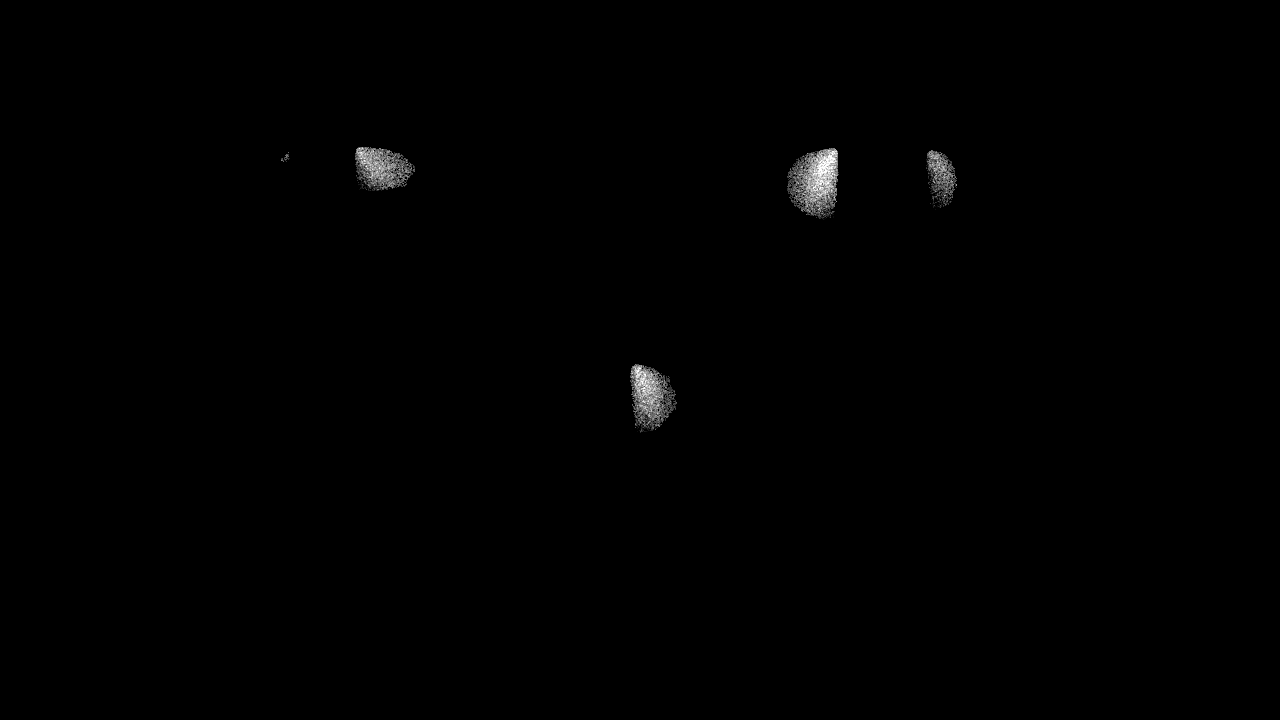
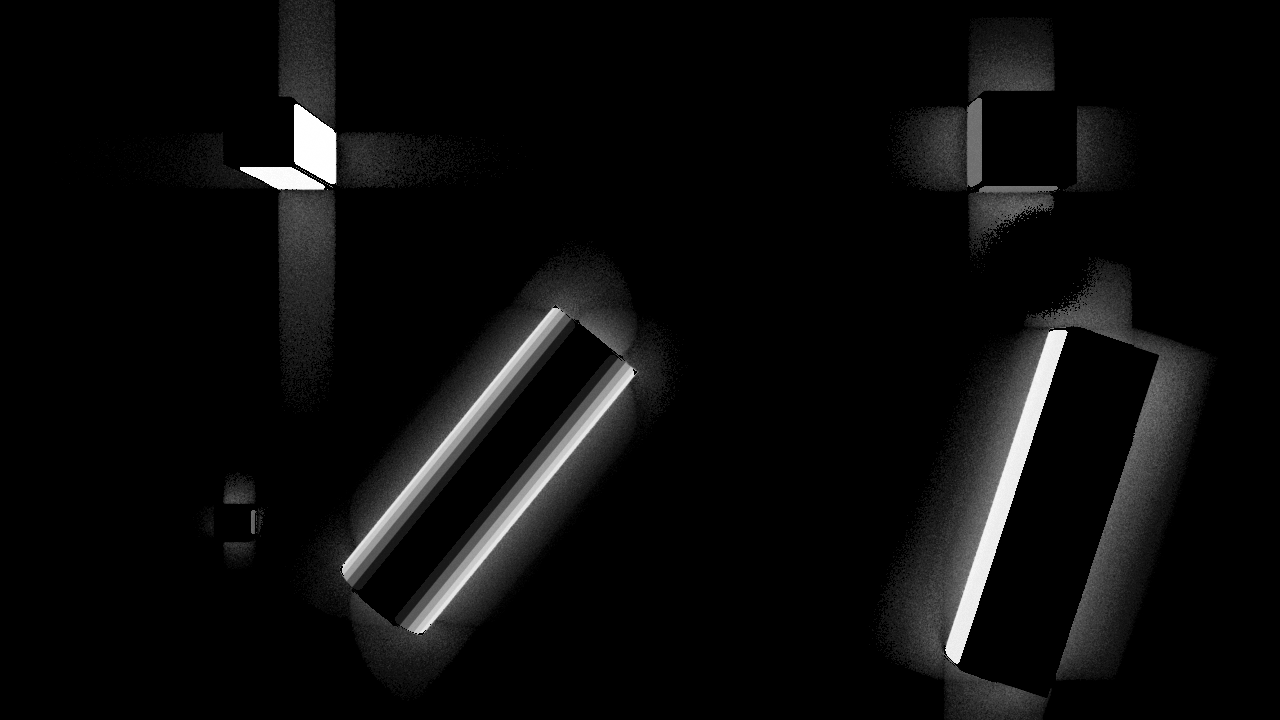
Add depth test assets; update defaults/paths
Add many test_depth assets and Blender files, and update processing defaults and paths. calculaCoordenada.py: use args.cam_z for workbench offset_z and change default rgb/depth fallback to test_depth/rgb_test.png and test_depth/res_depth1.png. main.py: switch default input/output folders from test_depth/t3 to test_depth/t9. Also update static result images (resultado_albedo.png, resultado_depth.png).

diff --git a/calculaCoordenada.py b/calculaCoordenada.py
@@ -336,7 +336,7 @@ if __name__ == "__main__":
     CONFIG["workbench"]["volume_z_m"]  = args.vol_z
     CONFIG["workbench"]["offset_x_m"]  = args.cam_x
     CONFIG["workbench"]["offset_y_m"]  = args.cam_y
-    CONFIG["workbench"]["offset_z_m"]  = 10
+    CONFIG["workbench"]["offset_z_m"]  = args.cam_z
     CONFIG["floor_percentile"]         = args.floor_pct
     CONFIG["object_threshold_m"]       = args.threshold
     CONFIG["min_area_px"]              = args.min_area
@@ -345,7 +345,7 @@ if __name__ == "__main__":
     # Caminhos padrão
     base  = os.path.dirname(os.path.abspath(__file__))
     pasta = os.path.join(base, "test_depth")
-    rgb_path   = args.rgb   or os.path.join(pasta, "blenderTest2.png")
-    depth_path = args.depth or os.path.join(pasta, "img2.png")
+    rgb_path   = args.rgb   or os.path.join(pasta, "rgb_test.png")
+    depth_path = args.depth or os.path.join(pasta, "res_depth1.png")
 
     main(CONFIG, rgb_path, depth_path)

diff --git a/main.py b/main.py
@@ -24,8 +24,8 @@ def calcular_vetor_sol(azimute_graus: float, elevacao_graus: float = 45.0) -> li
 def main():
     # 1. Configuração de Diretórios
     # Usa os.path.join para evitar problemas com barras (\ ou /)
-    pasta_entrada = os.path.join("test_depth", "t3")
-    pasta_saida = os.path.join("test_depth", "t3_resultados")
+    pasta_entrada = os.path.join("test_depth", "t9")
+    pasta_saida = os.path.join("test_depth", "t9_resultados")
     
     # Cria a pasta de saída se ela não existir
     os.makedirs(pasta_saida, exist_ok=True)